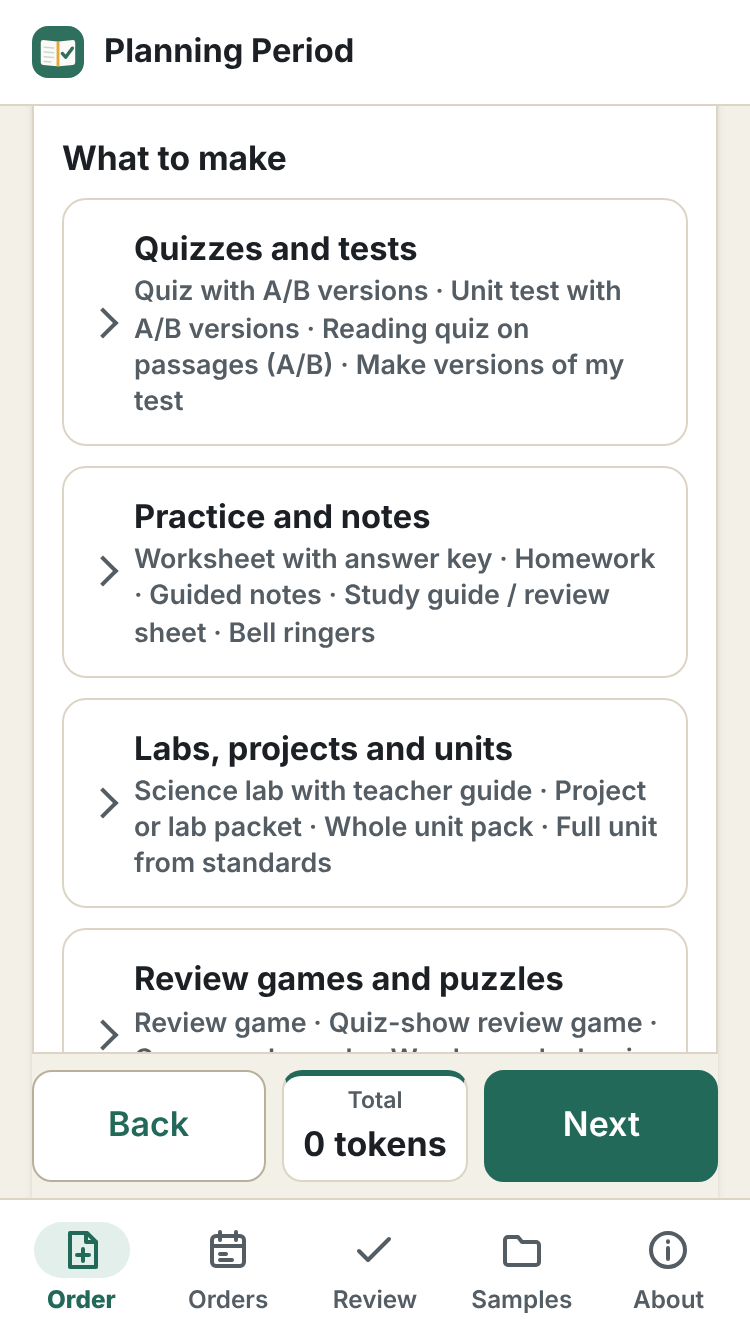
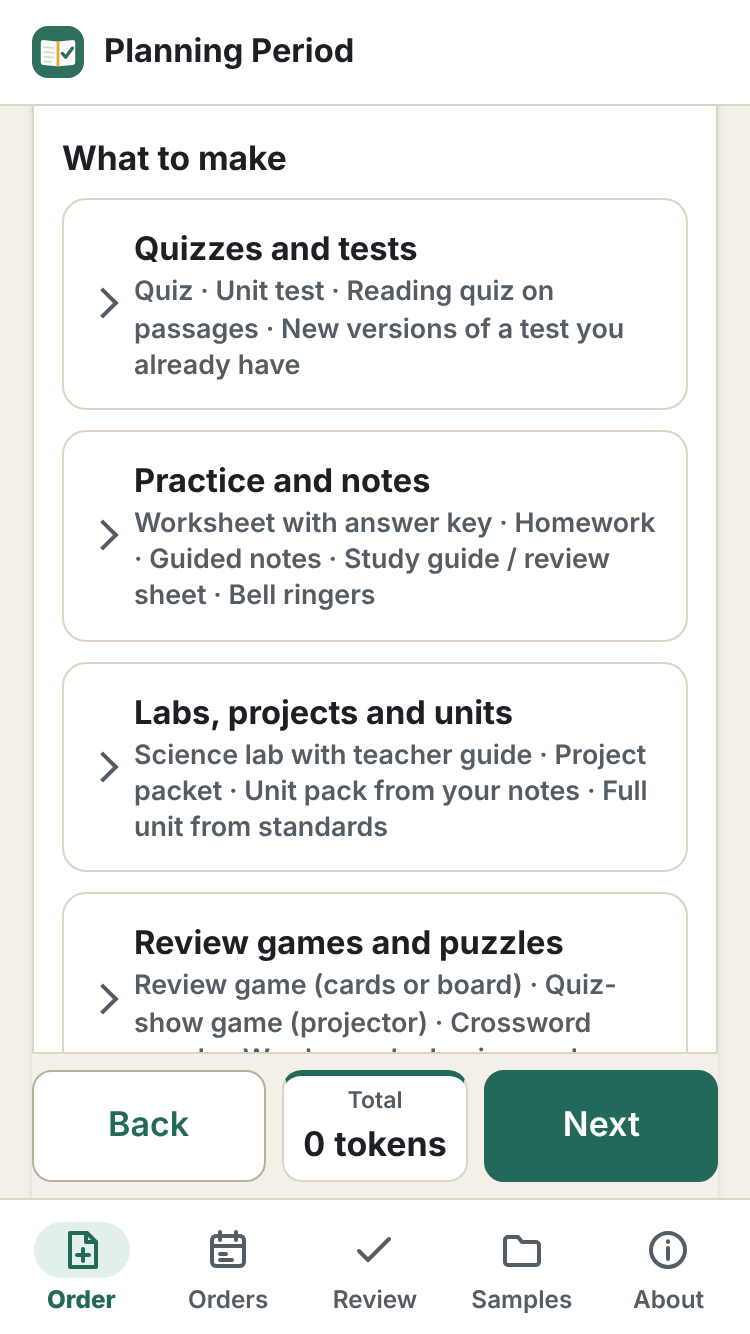
Menu: no repeats. "Interactive worksheet" leaves the menu; names say what each item is
Owner, Nov 13, 2026: "some of the tabs are repetitive. i see 2 labs, a couple of multiple versions, etc"

- "Interactive worksheet" (45 tokens) leaves the menu: every worksheet already offers "or interactive" at the
  worksheet price. Its renderer stays for older orders and the review app; PRICING.md says so.
- Two labs: "Project or lab packet" is now "Project packet" and points labs to "Science lab with teacher guide".
- Versions said four times: "Quiz", "Unit test" and "Reading quiz on passages" (their details and the card tag say
  two versions by default, or up to 10); "Make versions of my test" is "New versions of a test you already have".
- Units: "Unit pack from your notes" and "Full unit from standards". Games: "Review game (cards or board)" and
  "Quiz-show game (projector)". The apps group is "Apps and practice games".

Claude-Session: https://claude.ai/code/session_01PC8i7oSVLtQsyGdfQXPSnr

diff --git a/site/order.js b/site/order.js
@@ -344,7 +344,7 @@
         '<label class="pick"><input type="checkbox" value="' + esc(it.id) + '">' + paperIcon(it.id) + '<span><b>' + esc(it.label) + '</b></span></label>' +
         '<p class="detail">' + esc(it.detail) + '</p>' +
         '<div class="tags"><span class="tag cost">' + it.tokens + ' tokens</span>' +
-        (it.versions ? '<span class="tag ab">A/B versions</span>' : '') +
+        (it.versions ? '<span class="tag ab">' + (it.versionPricing ? 'A/B or more versions' : 'A/B versions') + '</span>' : '') +
         (it.interactive ? '<span class="tag int">or interactive</span>' : '') +
         (it.formats || []).map(function (f) { return '<span class="tag">' + esc(f) + '</span>'; }).join('') + '</div>' +
         '<div class="qty" hidden><label for="qty-' + esc(it.id) + '">How many</label>' +

diff --git a/docs/PRICING.md b/docs/PRICING.md
@@ -62,7 +62,7 @@ the numbers are recalibrated. What a teacher pays for a token is separate (secti
 | `wordsearch` | 10 | $1.00 | $0.4–0.8 (**guess**) | the grid is made by code; the agent work is the word list and a spelling check (added Nov 5, 2026) |
 | `logicpuzzle` | 20 | $2.00 | $1.2–1.8 (**guess**) | written by the maker, proved to have exactly one solution by a solver script, then solved blind (added Nov 5, 2026) |
 | `reviewapp` | 60 | $6.00 | $3–5 (**guess**) | the content (cards, steps, practice) plus a tested offline app template; checked like a quiz and opened in a browser test (added Nov 5, 2026) |
-| `interactive` | 45 | $4.50 | $2.5–3.5 (**guess**) | a worksheet's content plus accepted answer forms and hints, built on the Pet World note-sheet engine; browser-tested (added Nov 5, 2026) |
+| `interactive` | 45 | $4.50 | $2.5–3.5 (**guess**) | a worksheet's content plus accepted answer forms and hints, built on the Pet World note-sheet engine; browser-tested (added Nov 5, 2026). **Off the menu since Nov 13, 2026** (owner: "some of the tabs are repetitive"): a worksheet's "or interactive" format does the same at the worksheet price; this row stays for older orders |
 | `practicegame` | 70 | $7.00 | $3–6 (**guess**) | about 20 questions checked like a quiz, plus a tested game template skinned with the theme and a browser test; recalibrate after the first ones (added Nov 5, 2026) |
 | `styleSetup` (extra) | 0 | — | about $0.5–1.5 for style setup, once | the first order's style notes, carried by the order |
 
